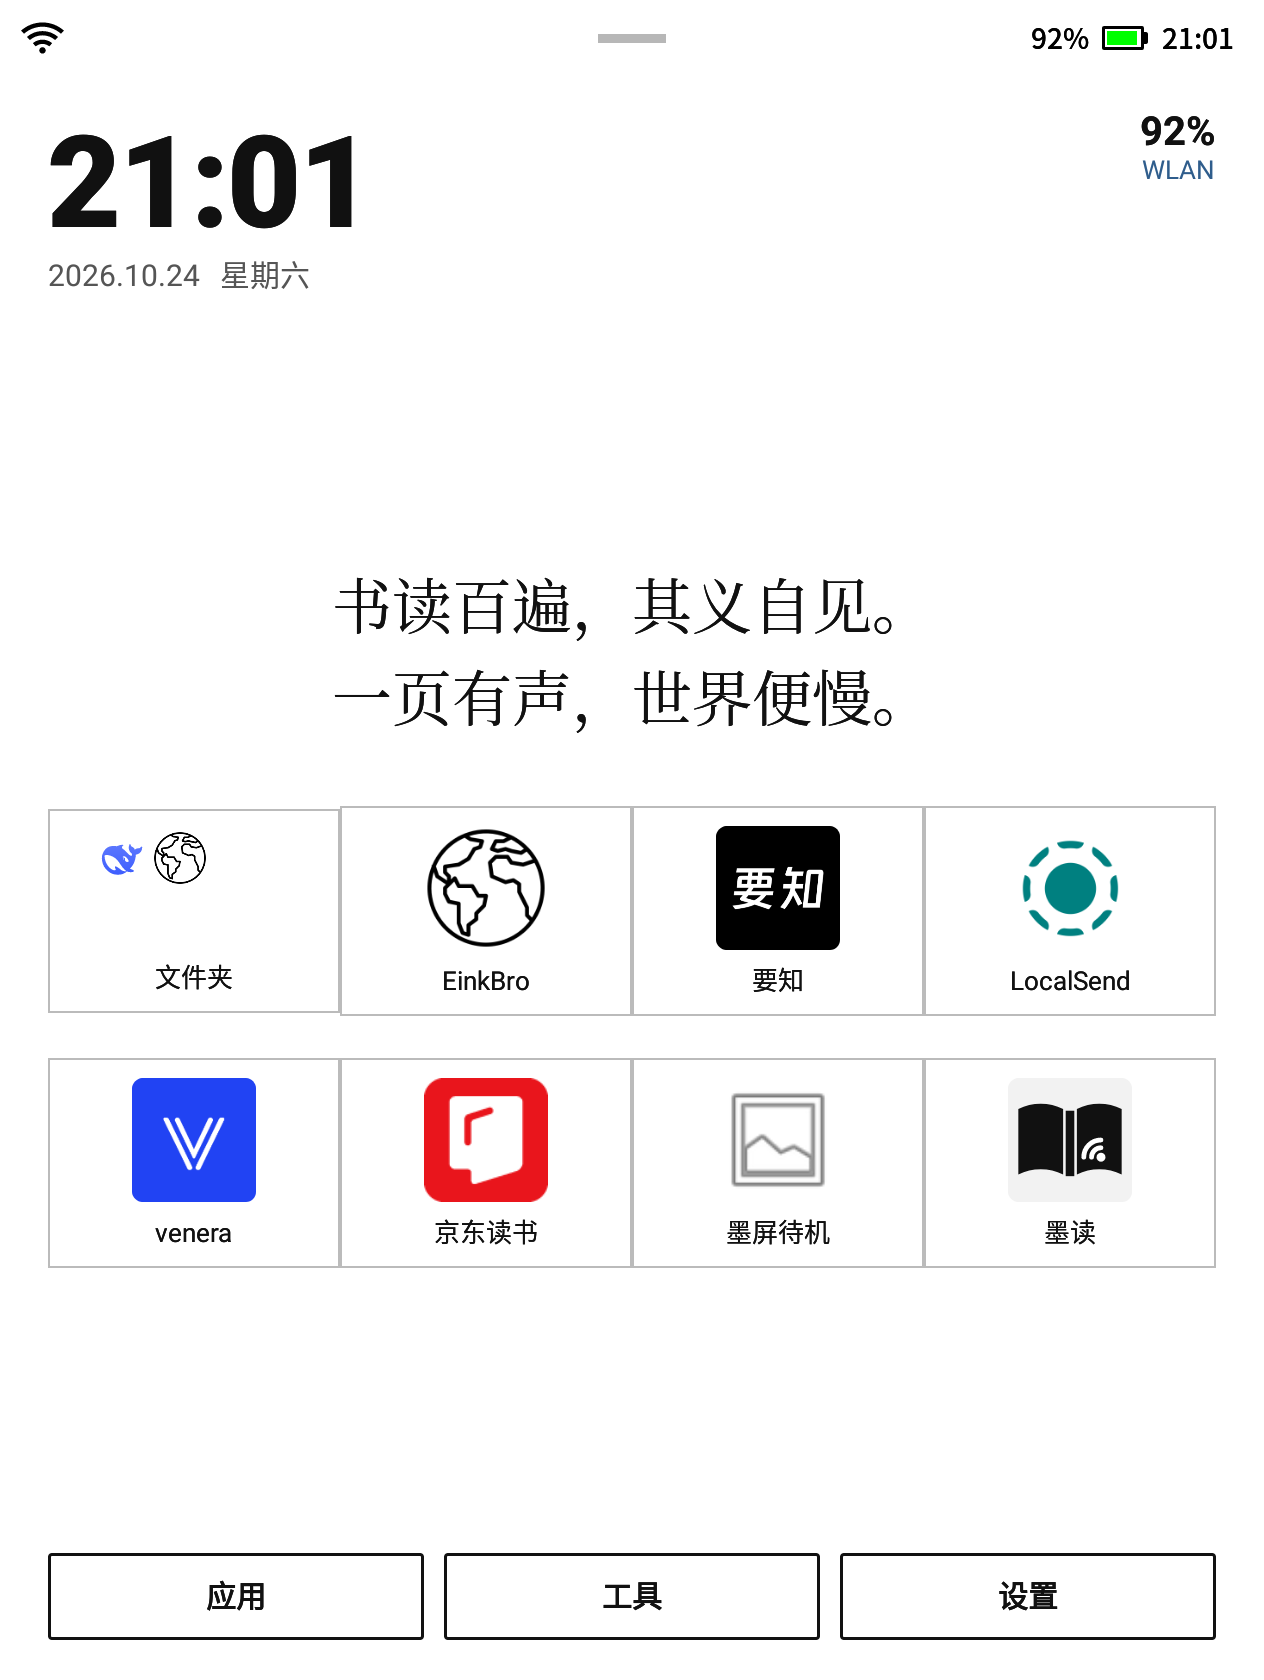
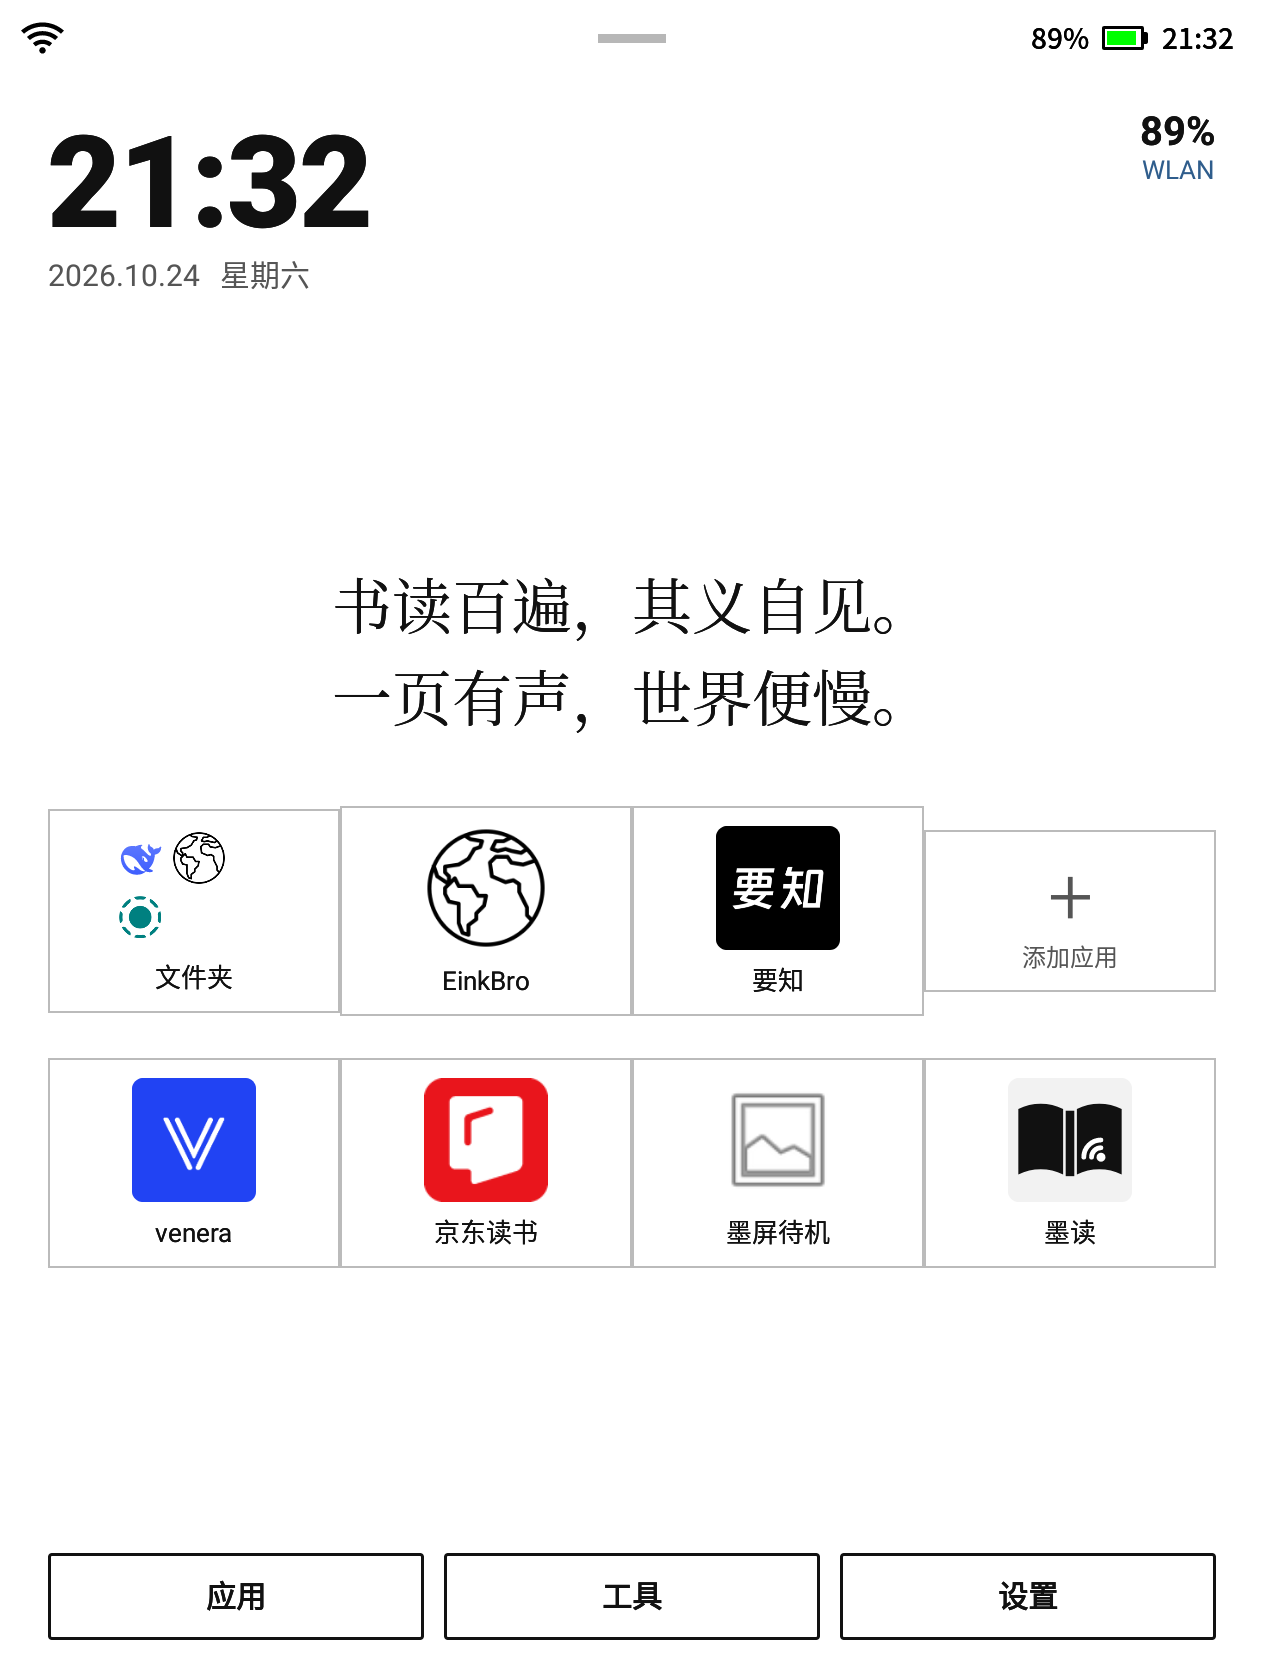
feat: v0.4.0 —— 自定义图标、移动文件夹、备份恢复、咖啡因保持亮屏
- 自定义应用图标（SAF 选图，黑白模式自动去饱和，可恢复默认）
- 移动应用到已有文件夹
- 桌面配置备份/恢复（JSON 文件）
- 咖啡因：1x1 透明悬浮窗 + FLAG_KEEP_SCREEN_ON，任意页面保持亮屏，入口在设置/工具
- 标准 QS 磁贴已实现，但 XF-R3 厂商控制中心会重置 sysui_qs_tiles，第三方磁贴无法显示（README 已说明）

diff --git a/app/src/main/java/io/github/xzl01/inkhome/MainActivity.kt b/app/src/main/java/io/github/xzl01/inkhome/MainActivity.kt
@@ -4,7 +4,9 @@ import android.app.ActivityManager
 import android.app.admin.DevicePolicyManager
 import android.content.ComponentName
 import android.content.Intent
+import android.net.Uri
 import android.os.Bundle
+import android.provider.Settings
 import android.widget.Toast
 import androidx.activity.ComponentActivity
 import androidx.activity.compose.BackHandler
@@ -94,6 +96,7 @@ private fun InkHomeRoot(prefs: Prefs, repo: AppRepository, homeSignal: Int) {
     var hideSystem by remember { mutableStateOf(prefs.hideSystemApps()) }
     var slotCount by remember { mutableStateOf(prefs.slotCount()) }
     var iconSizeDp by remember { mutableStateOf(prefs.iconSizeDp()) }
+    var caffeine by remember { mutableStateOf(prefs.caffeine()) }
     var motto by remember { mutableStateOf(prefs.motto()) }
     var pickIndex by remember { mutableIntStateOf(-1) }
     var pickFolderId by remember { mutableStateOf<String?>(null) }
@@ -250,6 +253,36 @@ private fun InkHomeRoot(prefs: Prefs, repo: AppRepository, homeSignal: Int) {
         }
     }
 
+    fun setCaffeine(enable: Boolean) {
+        if (enable && !Settings.canDrawOverlays(context)) {
+            Toast.makeText(context, "请允许「显示在其他应用上层」后再开启", Toast.LENGTH_SHORT).show()
+            runCatching {
+                context.startActivity(
+                    Intent(
+                        Settings.ACTION_MANAGE_OVERLAY_PERMISSION,
+                        Uri.parse("package:${context.packageName}")
+                    ).addFlags(Intent.FLAG_ACTIVITY_NEW_TASK)
+                )
+            }
+            return
+        }
+        prefs.setCaffeine(enable)
+        caffeine = enable
+        if (enable) {
+            context.startForegroundService(Intent(context, CaffeineService::class.java))
+            Toast.makeText(context, "咖啡因已开启：屏幕保持常亮", Toast.LENGTH_SHORT).show()
+        } else {
+            context.stopService(Intent(context, CaffeineService::class.java))
+            Toast.makeText(context, "咖啡因已关闭", Toast.LENGTH_SHORT).show()
+        }
+    }
+
+    LaunchedEffect(Unit) {
+        if (prefs.caffeine() && Settings.canDrawOverlays(context)) {
+            context.startForegroundService(Intent(context, CaffeineService::class.java))
+        }
+    }
+
     fun cleanBackground() {
         val am = context.getSystemService(ActivityManager::class.java)
         var killed = 0
@@ -377,6 +410,7 @@ private fun InkHomeRoot(prefs: Prefs, repo: AppRepository, homeSignal: Int) {
                 hideSystemApps = hideSystem,
                 slotCount = slotCount,
                 iconSizeDp = iconSizeDp,
+                caffeine = caffeine,
                 motto = motto,
                 onToggleColorIcons = { value ->
                     colorIcons = value
@@ -394,6 +428,7 @@ private fun InkHomeRoot(prefs: Prefs, repo: AppRepository, homeSignal: Int) {
                     iconSizeDp = value
                     prefs.setIconSizeDp(value)
                 },
+                onSetCaffeine = { enable -> setCaffeine(enable) },
                 onMottoSave = { value ->
                     prefs.setMotto(value)
                     motto = prefs.motto()
@@ -444,10 +479,12 @@ private fun InkHomeRoot(prefs: Prefs, repo: AppRepository, homeSignal: Int) {
 
     if (showTools) {
         ToolsDialog(
+            caffeine = caffeine,
             onDismiss = { showTools = false },
             onCleanBackground = { cleanBackground() },
             onLockScreen = { lockScreen() },
             onFlashRefresh = { flashCounter++ },
+            onToggleCaffeine = { setCaffeine(!caffeine) },
             onSettings = { screen = "settings" }
         )
     }

diff --git a/app/src/main/java/io/github/xzl01/inkhome/CaffeineService.kt b/app/src/main/java/io/github/xzl01/inkhome/CaffeineService.kt
@@ -1,0 +1,97 @@
+package io.github.xzl01.inkhome
+
+import io.github.xzl01.inkhome.prefs.Prefs
+
+import android.app.Notification
+import android.app.NotificationChannel
+import android.app.NotificationManager
+import android.app.PendingIntent
+import android.app.Service
+import android.content.Intent
+import android.graphics.PixelFormat
+import android.os.IBinder
+import android.provider.Settings
+import android.view.Gravity
+import android.view.View
+import android.view.WindowManager
+
+/**
+ * 咖啡因（保持亮屏）：用一个 1x1 透明悬浮窗 + FLAG_KEEP_SCREEN_ON
+ * 让当前页面（任意 App）不自动锁屏/息屏。需要「显示在其他应用上层」权限。
+ */
+class CaffeineService : Service() {
+    private var overlay: View? = null
+    private var wm: WindowManager? = null
+
+    override fun onCreate() {
+        super.onCreate()
+        startForeground(NOTIFY_ID, buildNotification())
+        if (!Settings.canDrawOverlays(this)) {
+            stopSelf()
+            return
+        }
+        wm = getSystemService(WindowManager::class.java)
+        val params = WindowManager.LayoutParams(
+            1, 1,
+            WindowManager.LayoutParams.TYPE_APPLICATION_OVERLAY,
+            WindowManager.LayoutParams.FLAG_NOT_FOCUSABLE or
+                WindowManager.LayoutParams.FLAG_NOT_TOUCHABLE or
+                WindowManager.LayoutParams.FLAG_NOT_TOUCH_MODAL or
+                WindowManager.LayoutParams.FLAG_KEEP_SCREEN_ON,
+            PixelFormat.TRANSLUCENT
+        ).apply {
+            gravity = Gravity.TOP or Gravity.START
+        }
+        val v = View(this)
+        runCatching { wm?.addView(v, params) }
+        overlay = v
+        Prefs(this).setCaffeine(true)
+    }
+
+    override fun onStartCommand(intent: Intent?, flags: Int, startId: Int): Int {
+        if (intent?.action == ACTION_OFF) {
+            stopSelf()
+        }
+        return START_STICKY
+    }
+
+    override fun onDestroy() {
+        overlay?.let { runCatching { wm?.removeView(it) } }
+        overlay = null
+        Prefs(this).setCaffeine(false)
+        super.onDestroy()
+    }
+
+    override fun onBind(intent: Intent?): IBinder? = null
+
+    private fun buildNotification(): Notification {
+        val nm = getSystemService(NotificationManager::class.java)
+        if (nm != null && nm.getNotificationChannel(CHANNEL) == null) {
+            nm.createNotificationChannel(
+                NotificationChannel(CHANNEL, "咖啡因", NotificationManager.IMPORTANCE_MIN)
+            )
+        }
+        val open = PendingIntent.getActivity(
+            this, 0, Intent(this, MainActivity::class.java),
+            PendingIntent.FLAG_UPDATE_CURRENT or PendingIntent.FLAG_IMMUTABLE
+        )
+        val off = PendingIntent.getBroadcast(
+            this, 1, Intent(this, CaffeineToggleReceiver::class.java).setAction(ACTION_OFF),
+            PendingIntent.FLAG_UPDATE_CURRENT or PendingIntent.FLAG_IMMUTABLE
+        )
+        return Notification.Builder(this, CHANNEL)
+            .setSmallIcon(android.R.drawable.ic_menu_view)
+            .setContentTitle("咖啡因已开启")
+            .setContentText("屏幕保持常亮，点此关闭")
+            .setContentIntent(open)
+            .addAction(Notification.Action.Builder(null, "关闭", off).build())
+            .setOngoing(true)
+            .build()
+    }
+
+    companion object {
+        const val CHANNEL = "caffeine"
+        const val NOTIFY_ID = 2001
+        const val ACTION_OFF = "io.github.xzl01.inkhome.CAFFEINE_OFF"
+    }
+}

diff --git a/app/src/main/java/io/github/xzl01/inkhome/CaffeineTileService.kt b/app/src/main/java/io/github/xzl01/inkhome/CaffeineTileService.kt
@@ -1,0 +1,50 @@
+package io.github.xzl01.inkhome
+
+import io.github.xzl01.inkhome.prefs.Prefs
+
+import android.app.PendingIntent
+import android.content.Intent
+import android.graphics.drawable.Icon
+import android.net.Uri
+import android.os.Build
+import android.provider.Settings
+import android.service.quicksettings.Tile
+import android.service.quicksettings.TileService
+import androidx.annotation.RequiresApi
+
+/** 快捷设置磁贴：咖啡因 / 保持亮屏。 */
+@RequiresApi(Build.VERSION_CODES.N)
+class CaffeineTileService : TileService() {
+
+    override fun onStartListening() {
+        updateTile()
+    }
+
+    override fun onClick() {
+        val context = applicationContext
+        if (!Prefs(context).caffeine() && !Settings.canDrawOverlays(context)) {
+            val intent = Intent(
+                Settings.ACTION_MANAGE_OVERLAY_PERMISSION,
+                Uri.parse("package:$packageName")
+            ).addFlags(Intent.FLAG_ACTIVITY_NEW_TASK)
+            runCatching { startActivityAndCollapse(intent) }
+            return
+        }
+        val enable = !Prefs(context).caffeine()
+        Prefs(context).setCaffeine(enable)
+        if (enable) {
+            startForegroundService(Intent(context, CaffeineService::class.java))
+        } else {
+            stopService(Intent(context, CaffeineService::class.java))
+        }
+        updateTile()
+    }
+
+    private fun updateTile() {
+        val tile = qsTile ?: return
+        tile.state = if (Prefs(this).caffeine()) Tile.STATE_ACTIVE else Tile.STATE_INACTIVE
+        tile.label = "咖啡因"
+        tile.icon = Icon.createWithResource(this, R.drawable.ic_caffeine)
+        tile.updateTile()
+    }
+}

diff --git a/app/src/main/java/io/github/xzl01/inkhome/ui/SettingsScreen.kt b/app/src/main/java/io/github/xzl01/inkhome/ui/SettingsScreen.kt
@@ -42,11 +42,13 @@ fun SettingsScreen(
     hideSystemApps: Boolean,
     slotCount: Int,
     iconSizeDp: Int,
+    caffeine: Boolean,
     motto: String,
     onToggleColorIcons: (Boolean) -> Unit,
     onToggleHideSystem: (Boolean) -> Unit,
     onSlotCount: (Int) -> Unit,
     onIconSize: (Int) -> Unit,
+    onSetCaffeine: (Boolean) -> Unit,
     onMottoSave: (String) -> Unit,
     onBackup: () -> Unit,
     onRestore: () -> Unit,
@@ -131,6 +133,18 @@ fun SettingsScreen(
             Spacer(Modifier.height(8.dp))
             Choice("保存格言", false) { onMottoSave(mottoText) }
         }
+
+        SettingRow("咖啡因（保持亮屏）") {
+            Choice("开", caffeine) { onSetCaffeine(true) }
+            Spacer(Modifier.width(10.dp))
+            Choice("关", !caffeine) { onSetCaffeine(false) }
+        }
+        Text(
+            text = "开启后任意页面都不会自动锁屏/息屏；需允许「显示在其他应用上层」，通知栏也会有常驻通知。",
+            color = InkGray,
+            fontSize = 12.sp,
+            modifier = Modifier.padding(horizontal = 16.dp)
+        )
 
         SettingRow("桌面配置") {
             Choice("备份到文件", false) { onBackup() }

diff --git a/app/src/main/java/io/github/xzl01/inkhome/ui/ToolsDialog.kt b/app/src/main/java/io/github/xzl01/inkhome/ui/ToolsDialog.kt
@@ -14,10 +14,12 @@ import io.github.xzl01.inkhome.ui.theme.InkBlack
 
 @Composable
 fun ToolsDialog(
+    caffeine: Boolean,
     onDismiss: () -> Unit,
     onCleanBackground: () -> Unit,
     onLockScreen: () -> Unit,
     onFlashRefresh: () -> Unit,
+    onToggleCaffeine: () -> Unit,
     onSettings: () -> Unit
 ) {
     AlertDialog(
@@ -25,6 +27,9 @@ fun ToolsDialog(
         title = { Text("工具", color = InkBlack, fontSize = 20.sp, fontWeight = FontWeight.Bold) },
         text = {
             Column {
+                ToolItem(if (caffeine) "咖啡因：开（点按关闭）" else "咖啡因：关（点按开启）") {
+                    onDismiss(); onToggleCaffeine()
+                }
                 ToolItem("清理后台") { onDismiss(); onCleanBackground() }
                 ToolItem("锁屏") { onDismiss(); onLockScreen() }
                 ToolItem("刷屏清残影") { onDismiss(); onFlashRefresh() }

diff --git a/app/src/main/java/io/github/xzl01/inkhome/CaffeineToggleReceiver.kt b/app/src/main/java/io/github/xzl01/inkhome/CaffeineToggleReceiver.kt
@@ -1,0 +1,16 @@
+package io.github.xzl01.inkhome
+
+import io.github.xzl01.inkhome.prefs.Prefs
+
+import android.content.BroadcastReceiver
+import android.content.Context
+import android.content.Intent
+
+class CaffeineToggleReceiver : BroadcastReceiver() {
+    override fun onReceive(context: Context, intent: Intent) {
+        if (intent.action == CaffeineService.ACTION_OFF) {
+            Prefs(context).setCaffeine(false)
+            context.stopService(Intent(context, CaffeineService::class.java))
+        }
+    }
+}

diff --git a/app/src/main/java/io/github/xzl01/inkhome/prefs/Prefs.kt b/app/src/main/java/io/github/xzl01/inkhome/prefs/Prefs.kt
@@ -133,6 +133,12 @@ class Prefs(context: Context) {
         true
     }.getOrDefault(false)
 
+    fun caffeine(): Boolean = sp.getBoolean("caffeine", false)
+
+    fun setCaffeine(value: Boolean) {
+        sp.edit().putBoolean("caffeine", value).apply()
+    }
+
     fun seeded(): Boolean = sp.getBoolean("seeded", false)
 
     fun setSeeded(value: Boolean) {

diff --git a/README.md b/README.md
@@ -23,7 +23,10 @@
 - 应用抽屉：四列网格 + 搜索 + 右侧字母快速跳转，可隐藏系统应用
 - 长按应用：应用信息 / 卸载 / 添加到桌面 / 从桌面移除 / 新建文件夹
 - 文件夹：点开查看、添加/移出应用、重命名、解散
-- 工具菜单：清理后台、锁屏（DeviceAdmin）、刷屏清残影
+- 工具菜单：咖啡因（保持亮屏）、清理后台、锁屏（DeviceAdmin）、刷屏清残影
+- 自定义应用图标（系统选图，黑白模式自动去饱和）、移动到文件夹
+- 桌面配置备份/恢复（JSON）
+- 咖啡因：1x1 透明悬浮窗 + FLAG_KEEP_SCREEN_ON，任意页面保持亮屏
 - 按 HOME 从任何 App 返回时回到主屏；安装/卸载应用后自动刷新列表
 - 设置：彩色/黑白图标、桌面格子数、图标大小、抽屉是否隐藏系统应用、格言编辑
 - 完全离线，无广告、无追踪、无 GMS 依赖
